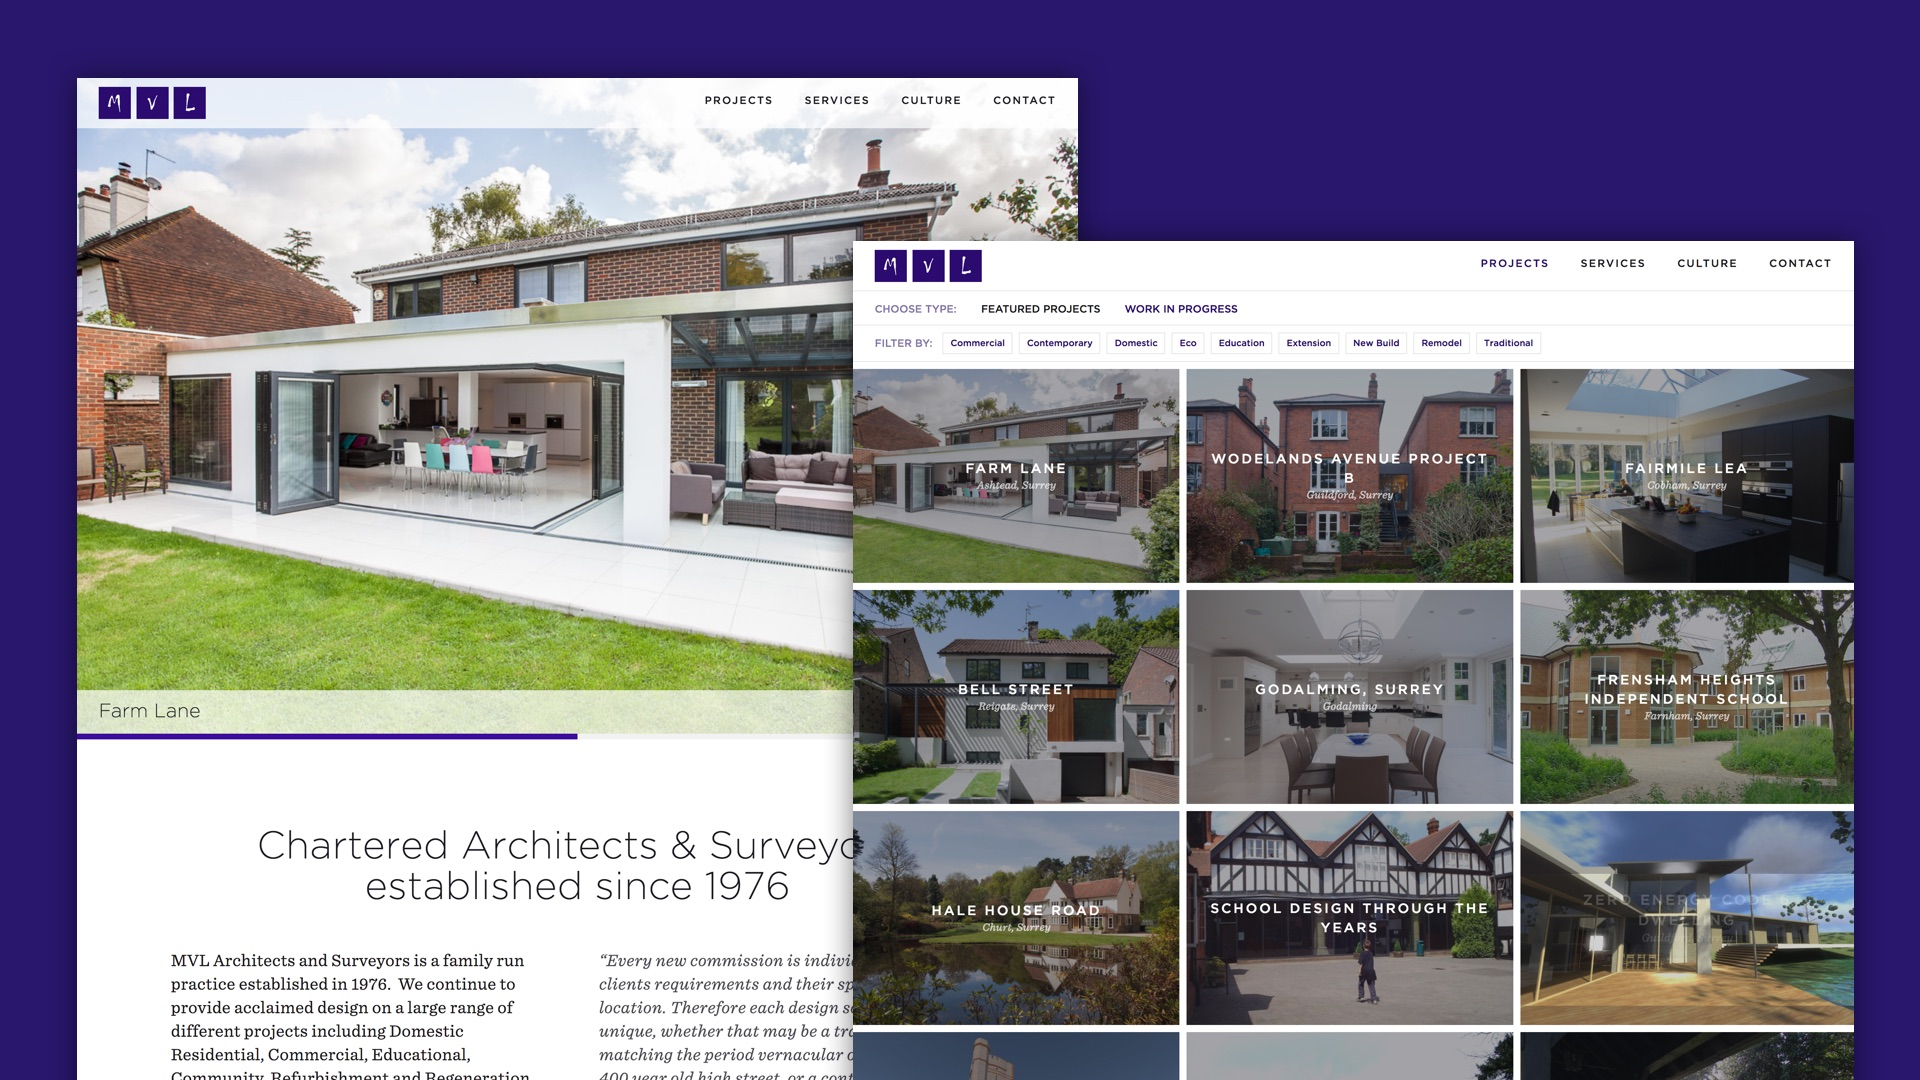
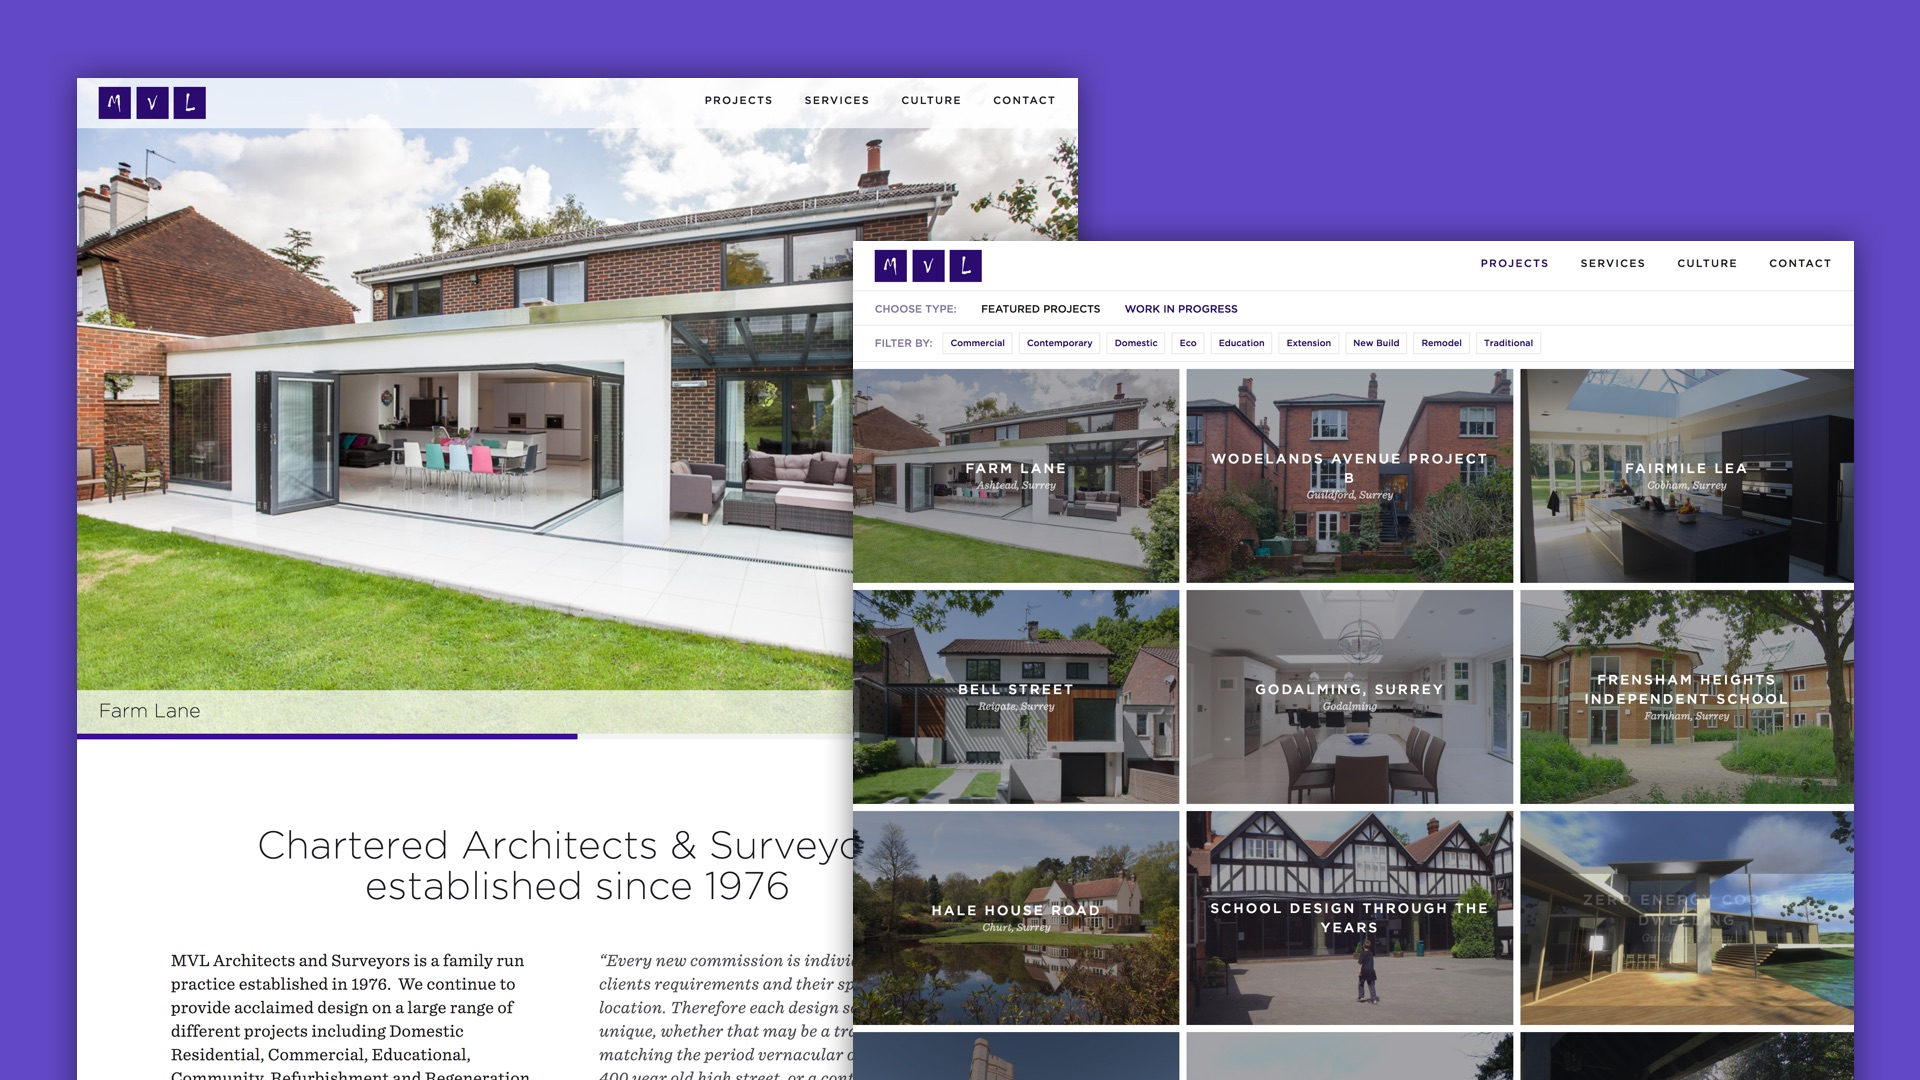
More portfolio updates

Changed region(s): [[0.0, 0.0, 1.0, 1.0]]

diff --git a/source/stylesheets/application.css.scss b/source/stylesheets/application.css.scss
@@ -129,12 +129,13 @@ h2,
   margin-bottom: 1em;
 }
 h3 {
-  font-size: 6rem;
+  font-size: 8rem;
   line-height: 1.2;
   margin: 0 0 1rem;
   @media screen and (max-width: 600px) {
     line-height: 1;
-    margin: 0 0 0.6em;
+    font-size: 6rem;
+    margin: 0 0 0.5rem;
   }
 }
 h4 {
@@ -418,7 +419,8 @@ fieldset {
 }
 
 .photo-credits {
-  max-width: 600px;
+  line-height: 1.2;
+  max-width: 680px;
   margin: 2rem auto;
 
   > p {
@@ -439,6 +441,13 @@ fieldset {
   line-height:1.2;
   display:inline-block;
   border-radius:3px;
+
+  @include transition(all .3s ease-in-out);
+
+  &:hover {
+    background-color: $primary-color;
+    color: $white;
+  }
 
   span {
     display:inline-block;
@@ -774,7 +783,7 @@ fieldset {
 .home-about-us {
   margin: 16% 0 0;
   h3 {
-    @include gs-span(cap,5,6);
+    @include gs-span(cap,5,7);
     //@include gs-float(cap, right);
     position: relative;
     top: -0.3em;
@@ -785,6 +794,7 @@ fieldset {
     }
   }
   .content {
+    font-size: 2.8rem;
     @include gs-span(cap,2,4);
     @media screen and (max-width: 600px) {
       float: none;
@@ -1210,9 +1220,9 @@ fieldset {
 }
 .what-we-do-intro {
   @include gs-span(cap,1,3, (2,7));
-  p:first-child {
-    @extend %first-letter;
-  }
+  // p:first-child {
+  //   @extend %first-letter;
+  // }
   @media screen and (max-width: 600px) {
     float: none;
     margin: 0 0 8%;
@@ -1249,9 +1259,9 @@ fieldset {
 }
 .why-capra-intro {
   @include gs-span(cap,2,4,(2,7));
-  p:first-child {
-    @extend %first-letter
-  }
+  // p:first-child {
+  //   @extend %first-letter
+  // }
   @media screen and (max-width: 600px) {
     float: none;
     margin: 0;
@@ -1259,9 +1269,13 @@ fieldset {
   }
 }
 .the-tribe {
+  color: $primary-color;
   margin: 0 0 8% 0;
   position: relative;
   @extend %clearfix;
+  h2 {
+    color: $primary-color;
+  }
   img {
     @include gs-span(cap,1,5);
     @media screen and (max-width: 600px) {
@@ -1287,9 +1301,6 @@ fieldset {
 .team-members {
   margin: 0 0 8% gs-marginleft(cap, 2, false, true);
   @extend %clearfix;
-  p:first-of-type {
-    @extend %first-letter
-  }
   @media screen and (max-width: 600px) {
     margin: 0 0 8%;
   }

diff --git a/source/stylesheets/partials/common.scss b/source/stylesheets/partials/common.scss
@@ -19,14 +19,14 @@ $alton-convent-color: #003f77;
 $mtp-color: #00afef;
 $backpagefootball-color: #9bcb5d;
 $cold-claim-color: #16BDF7;
-$super-better-color: #981A63;
+$super-better-color: #DE51A3;
 $hip-hop-quoted-color: #E92A42;
 $water-rangers-color: #246EC0;
 $dragimals-color: #6EDFC0;
 $govguide-color: #57ac2d;
 $glowfair-color: #EC1164;
 $taylorstattencamps-color: #D53630;
-$mvl-architects-color: #29176D;
+$mvl-architects-color: #6248C4;
 
 $button-width: 46px;                    // The width of the button area
 $button-height: 46px;                   // The height of the button area
